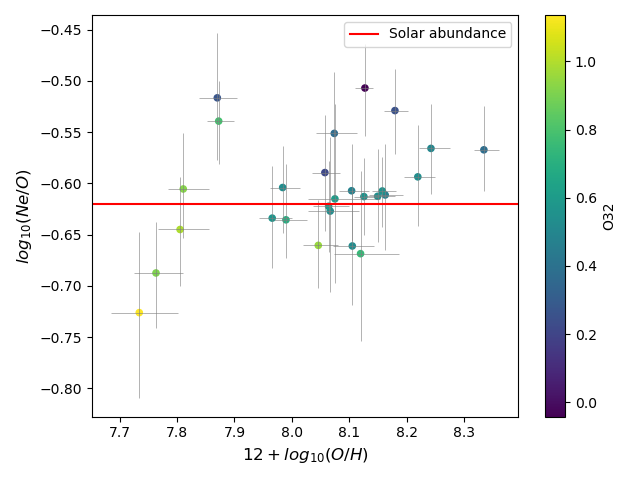
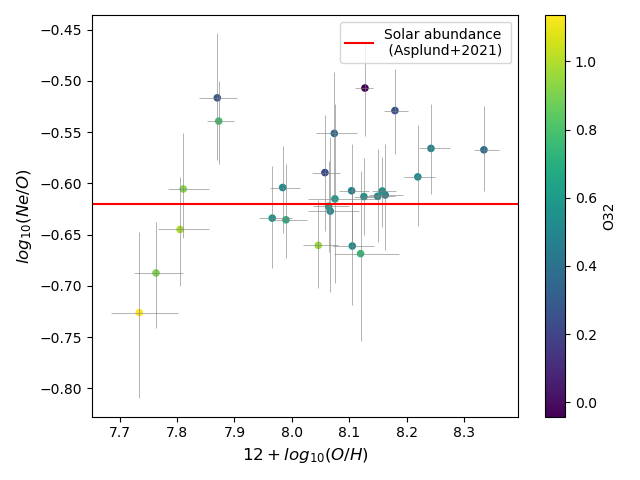
Cited Solar neon abundance

Changed region(s): [[0.5312, 0.0625, 0.8125, 0.125]]

diff --git a/Neon 08.26/NeonAbundances.py b/Neon 08.26/NeonAbundances.py
@@ -37,7 +37,7 @@ def main():
     colorbar = plt.colorbar(plot)
     colorbar.set_label(r"O32")
 
-    plt.axhline(np.log10(0.24), color = "red", label = "Solar abundance") #(Asplund+2021)
+    plt.axhline(np.log10(0.24), color = "red", label = "Solar abundance \n (Asplund+2021)") #(Asplund+2021)
     plt.legend()
     plt.tight_layout()
     plt.savefig("Ne-OH.png")
@@ -52,6 +52,6 @@ def main():
                                            "O32"])
         
     df.to_csv("Neondata060826.csv", index=False)
-    
+
 main()
 
